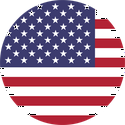
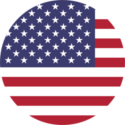
Replaced Lanczos3 sampling with Bilinear sampling when resizing images

diff --git a/gen-flags.go b/gen-flags.go
@@ -211,7 +211,7 @@ func (image DownloadTarget) download() ([]byte, error) {
         final_height := uint((image.Shape.Scale * decoded.Bounds().Max.Y) / 100)
 
         buf := new(bytes.Buffer)
-        newImage := resize.Resize(final_width, final_height, decoded, resize.Lanczos3)
+        newImage := resize.Resize(final_width, final_height, decoded, resize.Bilinear)
         err = png.Encode(buf, newImage)
         if err != nil {
             return []byte{}, err
